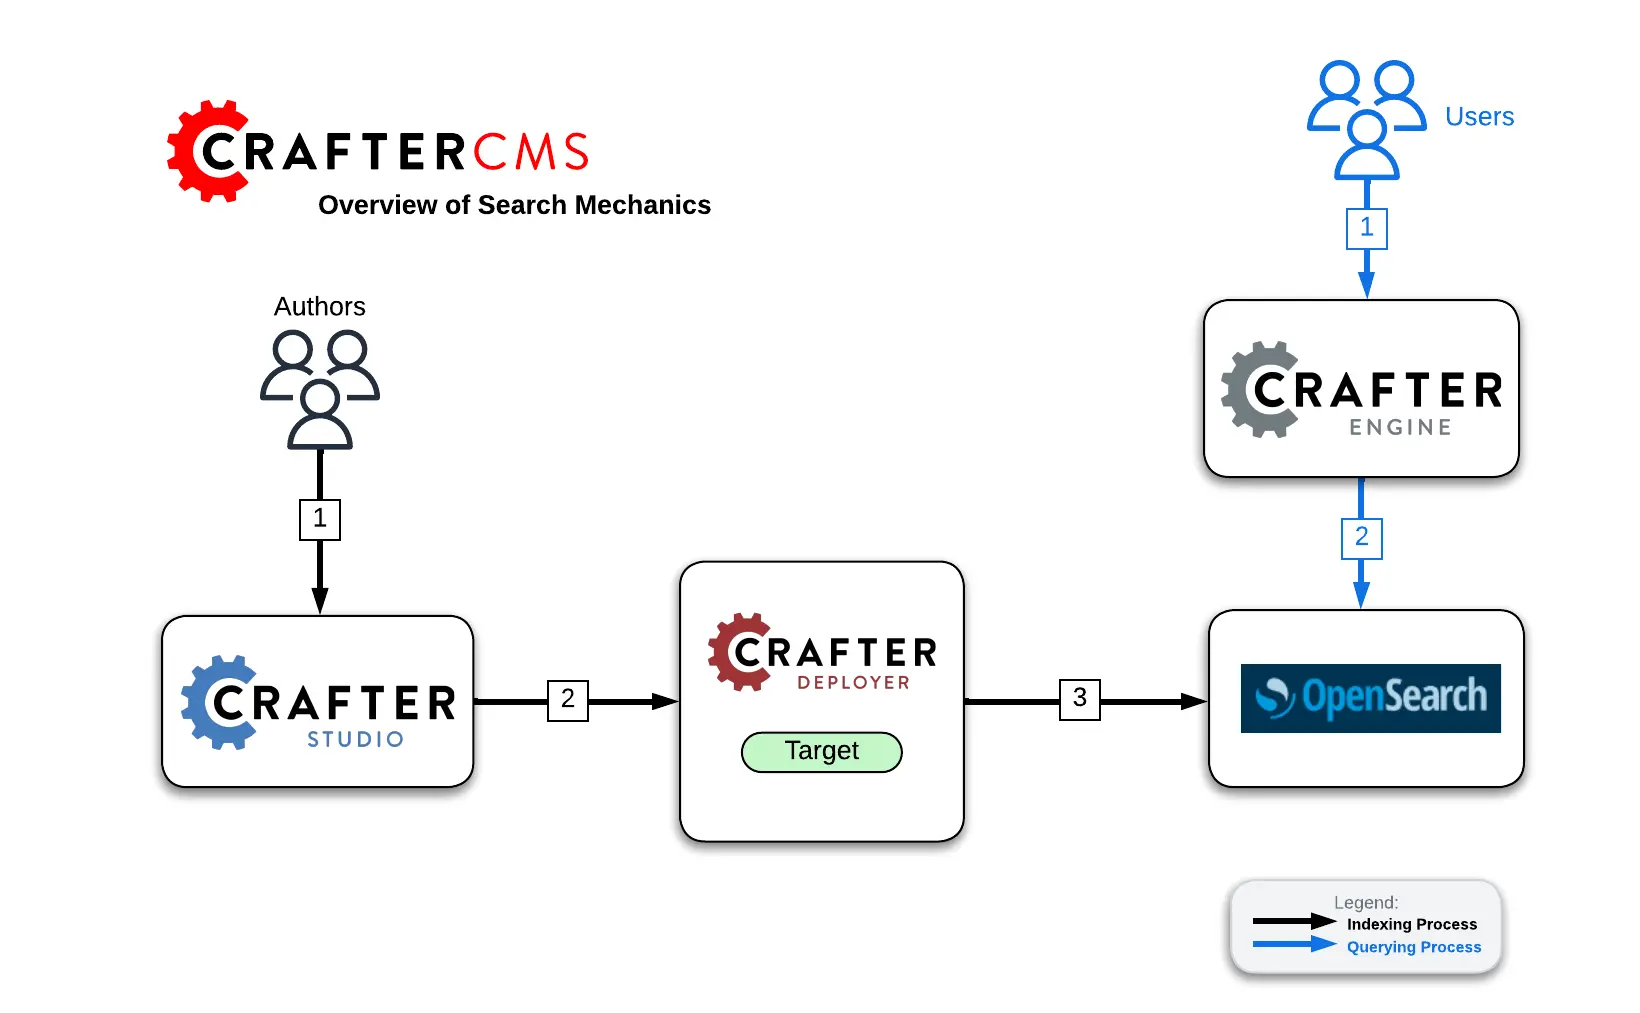
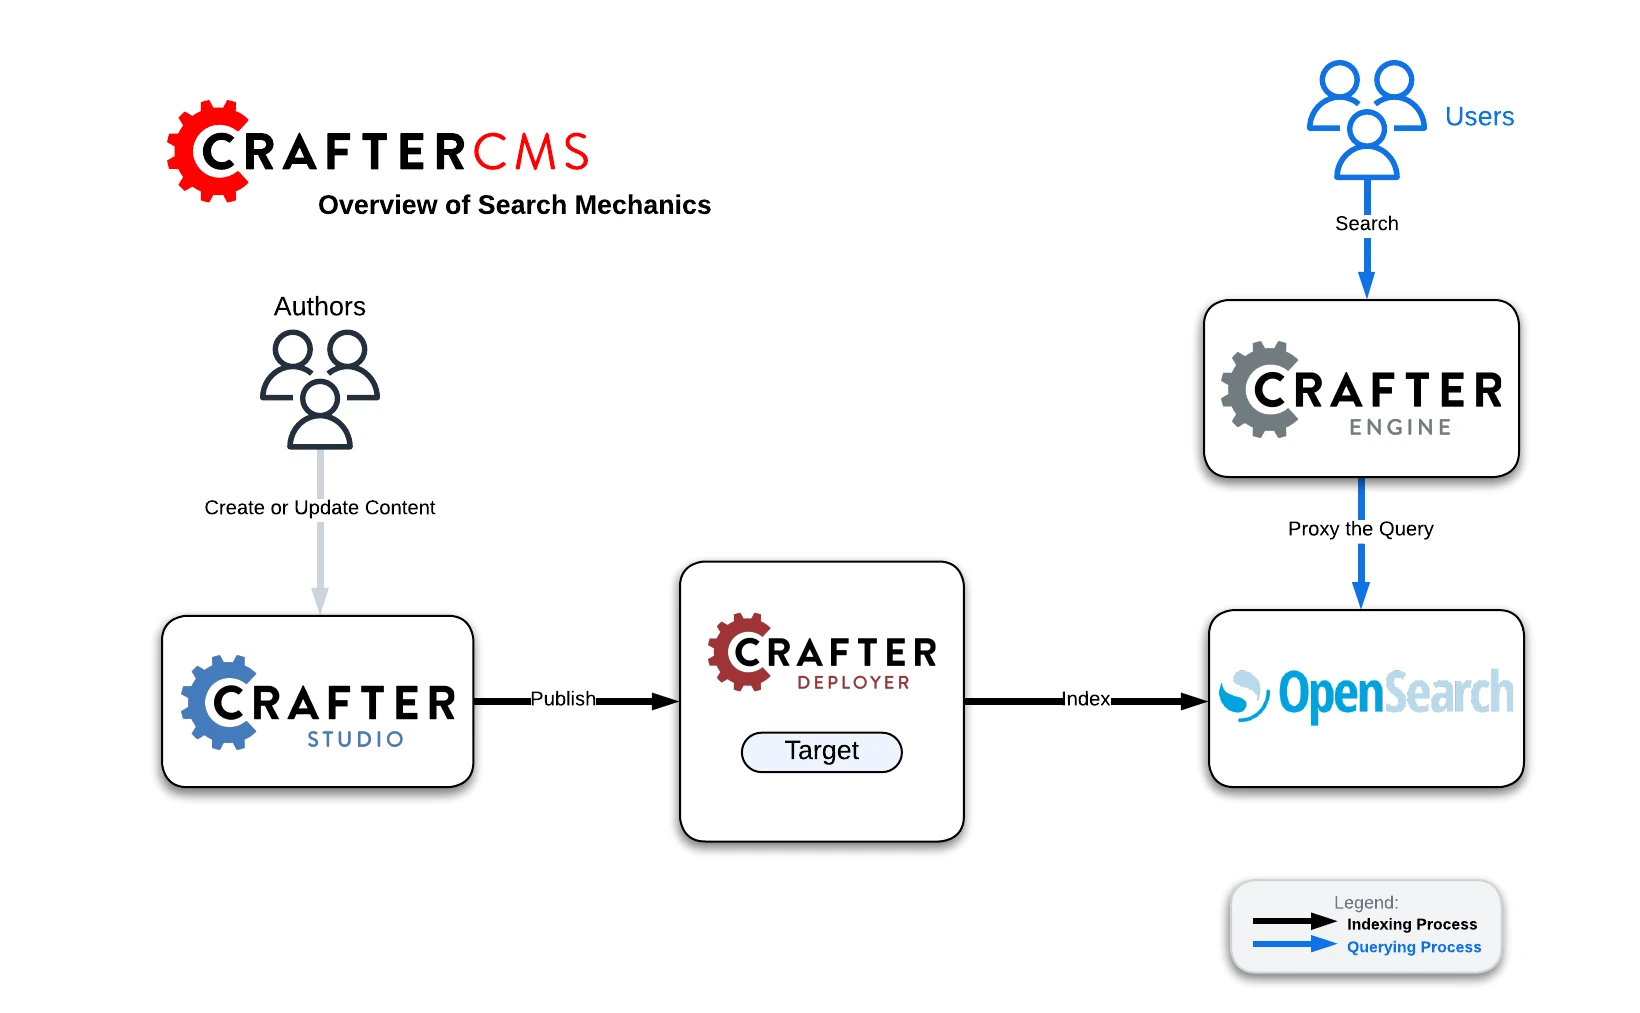
Finished the Troubleshooting Guide.

diff --git a/source/by-role/system-admin/maintenance/troubleshooting.rst b/source/by-role/system-admin/maintenance/troubleshooting.rst
@@ -1,4 +1,4 @@
-:is-up-to-date: False
+:is-up-to-date: True
 :last-updated: 4.1.2
 
 .. index:: Troubleshooting
@@ -39,26 +39,49 @@ Troubleshooting Search Issues
 ^^^^^^^^^^^^^^^^
 How Search Works
 ^^^^^^^^^^^^^^^^
-.. include:: /includes/how-search-works.rst
+CrafterCMS uses OpenSearch as the backing search engine. Crafter Deployer indexes the content and keeps OpenSearch up to date with the latest changes. Crafter Engine uses OpenSearch to perform search queries.
+
+.. image:: /_static/images/search/search-mechanics.webp
+   :alt: Crafter Studio Search Mechanics
+   :align: center
+
+"""""""""""""""""
+Indexing Process:
+"""""""""""""""""
+#. Authors create or update content in Crafter Studio
+#. Studio writes and/or publishes the content
+#. The Deployer picks up the changes in a particular target (which is the combination of site/environment). Then:
+
+	* On preview update, the Deployer inspects the ``sandbox`` and resolves the changes by doing a file diff between the last Git commit it processed
+	  and the latest commit in the ``sandbox``
+	* On publish, Studio moves the changes to ``published`` and the Deployer in delivery pulls the changes
+
+#. A processor of the target in the Deployer sends a request to search with the XML or content to index
+
+"""""""""""""""""
+Querying Process:
+"""""""""""""""""
+A. The end-user makes a request to Crafter Engine.
+B. Crafter Engine components requiring queries issue a query to search where filters will be added to the query and then executed.
 
 ^^^^^^^^^^^^^^^^^^^^^^^^^^^^^^^^^^^^^^
 Places Search Indexing Can Get Hung Up
 ^^^^^^^^^^^^^^^^^^^^^^^^^^^^^^^^^^^^^^
 * Communication Between Crafter Studio & Crafter Deployer
 
-	* Crafter Studio will notify the Deployer when content has changed.
-	* Ensure that the Deployer is pulling the changes.
-	* If the Deployer is not receiving any changes, check network connectivity and ports.
+	* Crafter Studio will notify the Deployer when content has changed
+	* Ensure that the Deployer is pulling the changes
+	* If the Deployer is not receiving any changes, check network connectivity and ports
 
 * Communication Between Crafter Deployer & OpenSearch
 
-	* The Deployer has a target with a Search Processor.
-	* Ensure that the processor is configured to the proper HOST, PORT for OpenSearch.
+	* The Deployer has a target with a Search Processor
+	* Ensure that the processor is configured to the proper HOST, PORT for OpenSearch
 
 * Communication Between Crafter Engine & OpenSearch
 
 	* Crafter Engine is configured to talk to OpenSearch
-	* Ensure that Crafter Engine is configured to the proper HOST, PORT for OpenSearch.
+	* Ensure that Crafter Engine is configured to the proper HOST, PORT for OpenSearch
 
 ^^^^^^^^^^^^^^^^^^^
 Reviewing Log Files
@@ -106,89 +129,13 @@ When publishing fails, here are some things to consider to help track down the c
 ^^^^^^^^^^^^^^^^^^^^^^^^
 Inspect Publishing Queue
 ^^^^^^^^^^^^^^^^^^^^^^^^
-The publishing queue (items that are in the queue for publishing) can be viewed through Studio from |projectTools| -> ``Publishing``, then scroll down to the ``Publishing Queue``. Here, the user can narrow down the queue for inspection by specifying filters. For more information see :ref:`publishing-queue`
+The publishing queue (items that are in the queue for publishing) can be viewed through Studio from the publishing icon at the top bar, or, |projectTools| -> ``Publishing``, then scroll down to the ``Publishing Queue``. Here, the user can narrow down the queue for inspection by specifying filters. For more information see :ref:`publishing-queue`
 
 .. image:: /_static/images/site-admin/project-tools-publishing-queue-all.webp
     :alt: Debugging Publishing Issues - Inspect Publishing Queue
 	:align: center
 
 |
-
-Another way to get the publishing queue, is to execute the following SQL query:
-
-.. code-block:: sql
-
-    SELECT * FROM publish_request
-    WHERE site = 'a_site_id'
-    ORDER BY scheduleddate
-
-Additionally, a query can be filtered by item state and scheduled data to narrow down the queue for inspection.
-
-Item states:
-
-    * `READY_FOR_LIVE`  - item is scheduled and waiting in the queue to be published
-    * `PROCESSING`      - item is being published
-    * `COMPLETED`       - item has been published
-    * `CANCELLED`       - item has been removed from the queue (publishing was canceled)
-    * `BLOCKED`         - item is blocking the publishing queue
-
-^^^^^^^^^^^^^^^^^^^^^^^^
-Unblock Publishing Queue
-^^^^^^^^^^^^^^^^^^^^^^^^
-The publishing queue can be blocked or stuck in an infinite loop by trying to publish the same item over and over again. It usually happens when there is some error in publishing some content.
-
-To discover which item is blocking publishing, the most common method is to inspect the queue and determine which item is first in the queue (state ``READY_FOR_LIVE``), together with all the other items that are scheduled with the same timestamp.
-Once you determine where the publishing queue is blocked/stuck, you can determine the reason by inspecting the log files and the repository.
-
-If it is possible to fix the publishing queue blockage, the system should be allowed to continue normally.
-After the queue has been unblocked, the publishing process needs to be enabled again. This can be done through Studio, by clicking on the ``Start`` button in |projectTools| -> ``Publishing`` -> ``Status``. :ref:`publishing-status` contains more information on the Publishing Status tab in Studio.
-Another way to enable the publishing process is to call the :ref:`crafter-studio-api-publish-start` Rest API to start publishing.
-
-If it is not possible to fix the publishing queue blockage, a workaround can be applied to unblock publishing. The workaround can be any valid intervention on the database and the repository to simulate the publishing process.
-
-^^^^^^^^^^^^^^^^^^^^^^^^^^^^^^
-Manual Syncing of Repositories
-^^^^^^^^^^^^^^^^^^^^^^^^^^^^^^
-One of the general workaround to unblock the publishing queue is by manual syncing of repositories. Manual syncing is done by cloning published repository from sandbox.
-
-.. code-block:: shell
-
-    # navigate to published repository
-    > cd path_to_published
-    > cd ..
-    # delete published repository
-    > rm -rf published
-    # clone published repository from sandbox
-    > git clone path_to_sandbox published
-
-
-.. warning:: By executing this command, all content in the sandbox will become published, and the published history will be replaced with authoring history.
-
-|
-
-To avoid unnecessary operations and confusion within the system, the database should also be updated by canceling everything remaining in the publishing queue and setting item states to ``Live``
-
-.. code-block:: sql
-    :caption: **Cancel everything in the publishing queue:**
-
-    UPDATE publish_request
-    SET state = 'CANCELLED'
-    WHERE site = 'a_site_id'
-    AND state = 'READY_FOR_LIVE';
-
-|
-
-.. code-block:: sql
-    :caption: **Set item states to "Live":**
-
-    UPDATE item_state
-    SET state = 'EXISTING_UNEDITED_UNLOCKED', system_processing = 0
-    WHERE site = 'a_site_id';
-
-|
-
-After successful manual syncing of repositories the publishing process needs to be enabled again. This can be done through Studio, by clicking on the ``Start`` button in |projectTools| -> ``Publishing`` -> ``Status``. :ref:`publishing-status` contains more information on the Publishing Status tab in Studio.
-Another way to enable the publishing process is to call the :ref:`crafter-studio-api-publish-start` Rest API to start publishing.
 
 ^^^^^^^^^^^^^^^^^^^^^^^^^^^^^^^^^^^^^^^^^^^^^^^^^^^^^
 Publishing Issues When Moving Projects Around in Disk
@@ -216,42 +163,6 @@ In some cases, the configuration looks like this:
 |
 
 To manually fix the configuration problem, either set the url value as a relative path between the ``published`` and the ``sandbox`` repositories (default ``../sandbox``) or set it as the absolute path of the ``sandbox`` repository.
-
-^^^^^^^^^^^^^^^^^^^^^^^^^^^^^^^^^^^^^^^^^^^^^^^^^^^^^^^^^^^^^^^^^^
-Publishing Issues When Commit ID for a content is NULL in Database
-^^^^^^^^^^^^^^^^^^^^^^^^^^^^^^^^^^^^^^^^^^^^^^^^^^^^^^^^^^^^^^^^^^
-Publishing issues may be caused if content does not have a commit id value in the metadata table. To detect which content has NULL for commit id, execute the following query:
-
-.. code-block:: sql
-
-    SELECT site, path FROM item_metadata WHERE commit_id is NULL;
-
-|
-
-When all content with NULL commit id is detected, the content needs to be edited manually by adding a change that will not affect content itself but will cause a Git change. (e.g. html or xml comment block, blank space etc.). The change needs to be committed in Git repo, then the sync repository feature will update the commit id in database.
-
-^^^^^^^^^^^^^^^^^^^^^^^^^^^^^^^^^^^^^^^^^^^^^^^^^^^^^^^
-Publishing Issues Caused by 'Ghost' Content in Database
-^^^^^^^^^^^^^^^^^^^^^^^^^^^^^^^^^^^^^^^^^^^^^^^^^^^^^^^
-'Ghost' content is content that has been deleted from repository, but its metadata remained in database. The only solution to this problem is to remove this content manually from database. Once 'ghost' content is identified the following queries need to be executed:
-
-.. code-block:: sql
-
-    DELETE FROM item_state WHERE site = 'mysite' and path = 'ghostcontent';
-
-    DELETE FROM item_metadata WHERE site = 'mysite' and path = 'ghostcontent';
-
-|
-
-
-^^^^^^^^^^^^^^^^^^^^^^^^^^^^^^^^^^^^^^^^
-Publishing Issues Upon a Cluster Restart
-^^^^^^^^^^^^^^^^^^^^^^^^^^^^^^^^^^^^^^^^
-It's possible for the publisher to lock itself out upon a cluster restart where the nodes are based on k8s and IP/identifiers change with every restart.
-
-To unlock publishing, open the ``Sidebar`` in Studio, then click on ``Project Tools`` ->  ``Publishing``. Click on the ``Status`` tab then click on the ``unlock publishing`` button (button with open padlock). Next, follow the instructions in the dialog to confirm action in order to unlock the publisher.
-
-See :ref:`publishing-status` for more details on the unlock publisher button.
 
 |hr|
 
@@ -299,7 +210,7 @@ If the Deployer is not able to clone the remote repository and an error like bel
 
 .. code-block:: java
 
-    org.eclipse.jgit.errors.TransportException: ssh://jdoe@server2.example.com:63022/path/to/repo: Connection timed out (Connection timed out)
+    org.eclipse.jgit.errors.TransportException: ssh://jdoe@authoring-server/path/to/repo: Connection timed out (Connection timed out)
         at org.eclipse.jgit.transport.JschConfigSessionFactory.getSession(JschConfigSessionFactory.java:159)
         at org.eclipse.jgit.transport.SshTransport.getSession(SshTransport.java:137)
         at org.eclipse.jgit.transport.TransportGitSsh$SshFetchConnection.<init>(TransportGitSsh.java:274)
@@ -312,7 +223,7 @@ If the Deployer is not able to clone the remote repository and an error like bel
 
 |
 
-Try a manual clone from the command line: `git clone ssh://jdoe@server2.example.com:63022/path/to/repo`
+Try a manual clone from the command line: `git clone ssh://jdoe@authoring-server/path/to/repo`
 
 If the manual clone works, it's very probable that there's a proxy between the servers. The Deployer currently does not support connections through proxies but might get support in a future update.
 
@@ -350,6 +261,7 @@ To test your SSH config, run the following:
 
    ssh -F crafter-authoring/data/ssh/config -o UserKnownHostsFile=crafter-authoring/data/ssh/known_hosts -T {server url}
 
+|
 
 ^^^^^^^^^^^^^^^^^^^^^^^^^^^^^^^^^^^^^^^^^^
 Remote Repository Not Found: USERAUTH fail

diff --git a/source/by-role/system-admin/upgrade/index.rst b/source/by-role/system-admin/upgrade/index.rst
@@ -1,14 +1,13 @@
 :is-up-to-date: True
 :last-updated: 4.1.1
 
-.. index:: Upgrading CrafterCMS; Upgrading
+.. index:: Upgrading CrafterCMS, Upgrading
 
 .. _upgrading-craftercms:
 
 ====================
 Upgrading CrafterCMS
 ====================
-
 This section details the steps required to upgrade your CrafterCMS install.
 
 .. WARNING::
